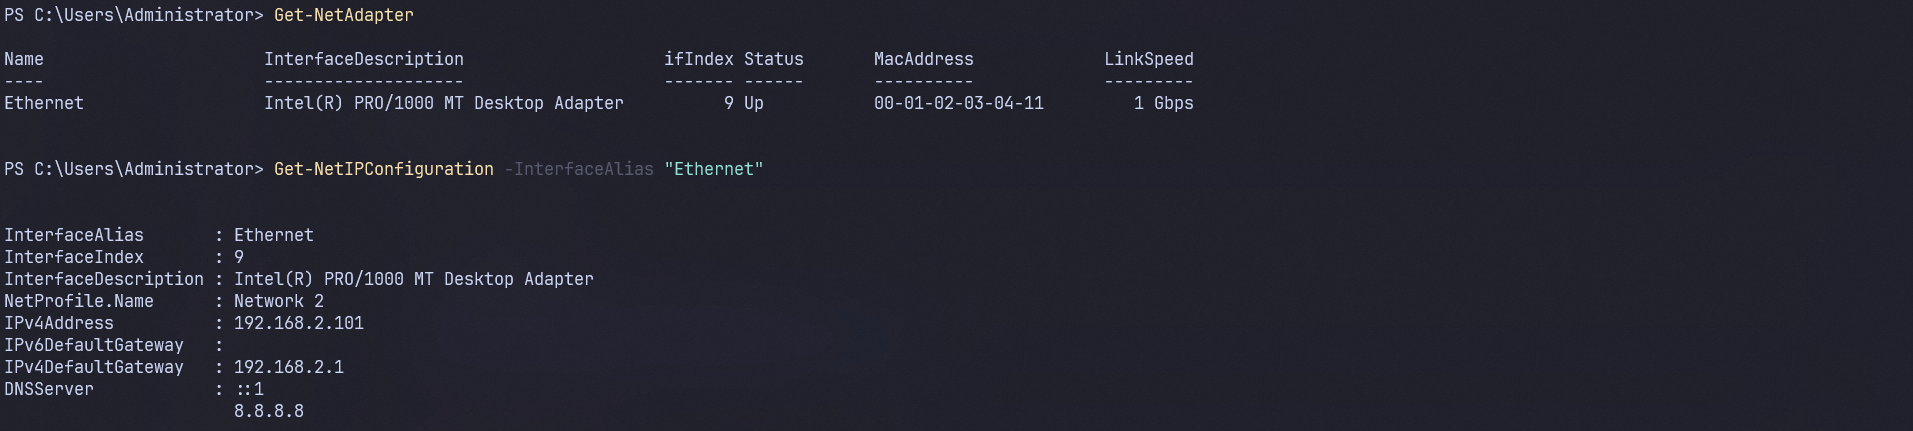
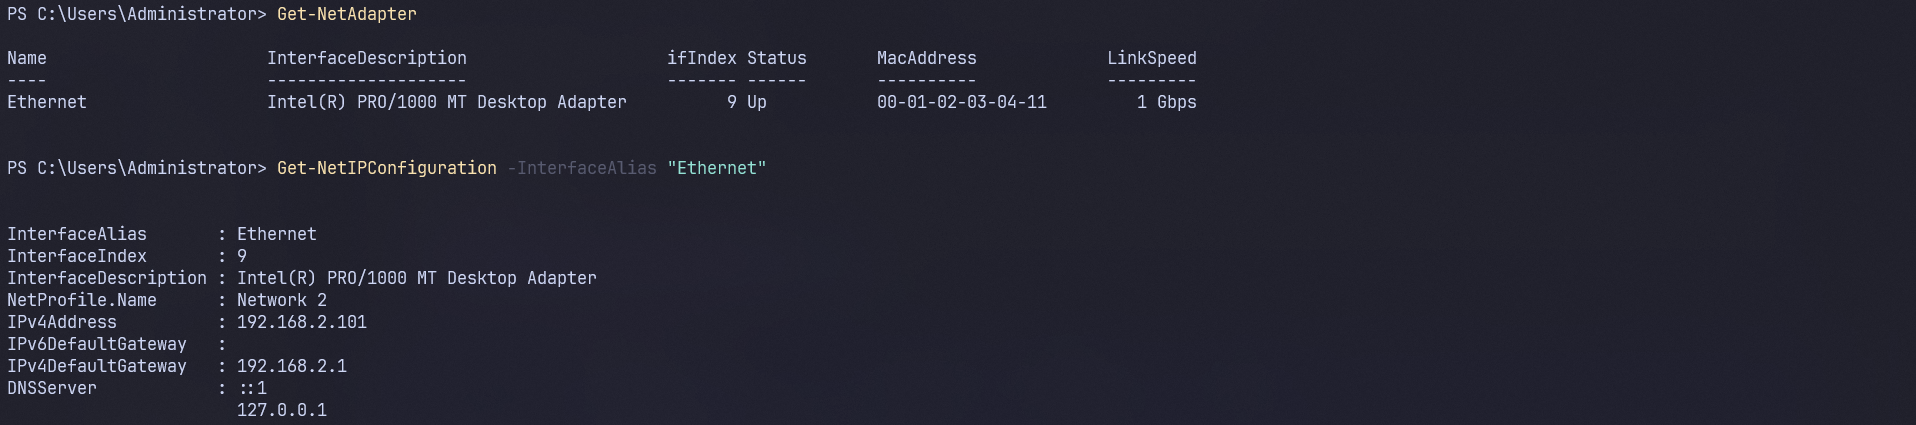
fix: server1 dns as localhost

diff --git a/windows/installing-services/installing-services.md b/windows/installing-services/installing-services.md
@@ -15,6 +15,11 @@ Add-WindowsFeature -Name "ad-domain-services" -IncludeAllSubFeature -IncludeMana
 # True    No             Success        {Active Directory Domain Services, Group P...
 ```
 
+```powershell title="servers - gpmc status"
+# Active Directory Domain Services (AD DS)
+Get-Service -Name NTDS | Select-Object Status, Name, DisplayName
+```
+
 # DNS
 
 ```powershell title="servers - dns installation"
@@ -22,6 +27,11 @@ Add-WindowsFeature -Name "dns" -IncludeAllSubFeature -IncludeManagementTools
 # Success Restart Needed Exit Code      Feature Result
 # ------- -------------- ---------      --------------
 # True    No             Success        {DNS Server, DNS Server Tools}
+```
+
+```powershell title="servers - gpmc status"
+# DNS Server
+Get-Service -Name DNS | Select-Object Status, Name, DisplayName
 ```
 
 # GPMC
@@ -33,6 +43,10 @@ Add-WindowsFeature -Name "gpmc" -IncludeAllSubFeature -IncludeManagementTools
 # True    No             NoChangeNeeded {}
 ```
 
+```powershell title="servers - gpmc status"
+# Group Policy Management Console (GPMC) - feature installed (not a service)
+Get-WindowsFeature -Name GPMC | Select-Object DisplayName, InstallState
+```
 # Snapshot
 
 ```powershell title="stop computers"
